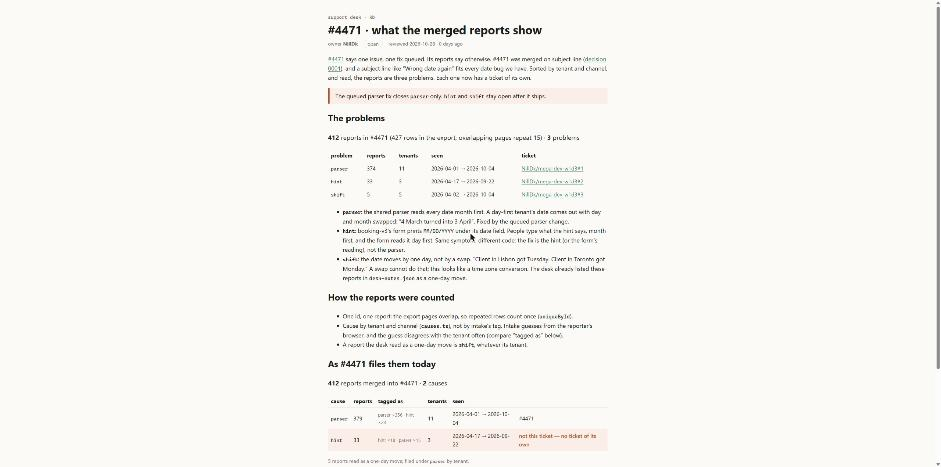
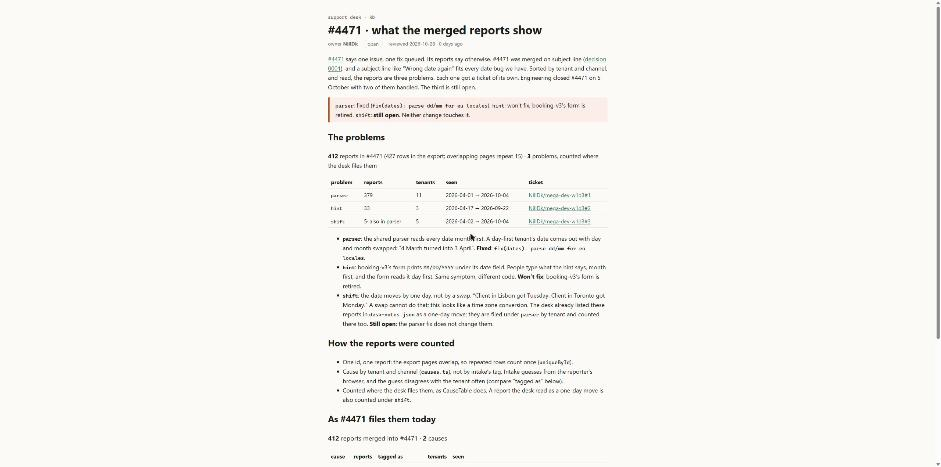
kb: 4471-split reflects #4471's close; count problems where the desk files them

diff --git a/rendered/4471-split.html b/rendered/4471-split.html
@@ -3,19 +3,19 @@
   <head>
     <meta charset="utf-8" />
     <meta name="viewport" content="width=device-width, initial-scale=1" />
-    <link href="../../_app/immutable/entry/start.DE2DCllr.js" rel="modulepreload">
+    <link href="../../_app/immutable/entry/start.BL4WUtSB.js" rel="modulepreload">
 		<link href="../../_app/immutable/chunks/Dc3myhCH.js" rel="modulepreload">
-		<link href="../../_app/immutable/chunks/nlwu1iZM.js" rel="modulepreload">
+		<link href="../../_app/immutable/chunks/wXXiyhBs.js" rel="modulepreload">
 		<link href="../../_app/immutable/chunks/B_F0-bQf.js" rel="modulepreload">
-		<link href="../../_app/immutable/entry/app.CVo913Ee.js" rel="modulepreload">
+		<link href="../../_app/immutable/entry/app.BZL37cY9.js" rel="modulepreload">
 		<link href="../../_app/immutable/chunks/Cdr0LWUj.js" rel="modulepreload">
 		<link href="../../_app/immutable/chunks/DiXWMdRu.js" rel="modulepreload">
 		<link href="../../_app/immutable/chunks/B7kOgPL8.js" rel="modulepreload">
 		<link href="../../_app/immutable/chunks/WDuJd7c_.js" rel="modulepreload">
 		<link href="../../_app/immutable/nodes/0.Cjwt2hR7.js" rel="modulepreload">
 		<link href="../../_app/immutable/chunks/DtwsQ6ur.js" rel="modulepreload">
-		<link href="../../_app/immutable/nodes/5.Bj4hrX9O.js" rel="modulepreload">
-		<link href="../../_app/immutable/chunks/BKRTNOGv.js" rel="modulepreload">
+		<link href="../../_app/immutable/nodes/5.CI6YKB9f.js" rel="modulepreload">
+		<link href="../../_app/immutable/chunks/DVDi_DPO.js" rel="modulepreload">
 		<link href="../../_app/immutable/chunks/Dv-jlncp.js" rel="modulepreload">
 		<link href="../../_app/immutable/chunks/BgJH9bYc.js" rel="modulepreload">
 		<link href="../../_app/immutable/chunks/4Yqb2TDZ.js" rel="modulepreload">
@@ -23,33 +23,34 @@
 		<link href="../../_app/immutable/assets/runbook.BhhgOc_n.css" rel="stylesheet">
 		<link href="../../_app/immutable/assets/Callout.yLErXQDM.css" rel="stylesheet">
 		<link href="../../_app/immutable/assets/CauseTable.DuKfINX_.css" rel="stylesheet">
-		<link href="../../_app/immutable/assets/5.CZRYr356.css" rel="stylesheet">
+		<link href="../../_app/immutable/assets/5.D9VB9jJU.css" rel="stylesheet">
   </head>
   <body data-sveltekit-preload-data="hover">
     <div style="display: contents"><!--[--><!--[0--><!--[--><!--[--><div class="kb svelte-e2jw2j"><header><a class="crumb svelte-e2jw2j" href="/kb">support desk · kb</a> <h1 class="svelte-e2jw2j">#4471 · what the merged reports show</h1> <p class="meta svelte-e2jw2j"><span>owner <b>NillDk</b></span> <span class="status open svelte-e2jw2j">open</span> <span class="svelte-e2jw2j">reviewed 2026-10-28 · 0 days ago</span></p></header> <!--[-1--><!--]--> <main><p><a href="/kb/incidents/4471">#4471</a> says one issue, one fix queued. Its reports say otherwise. #4471 was
 merged on subject line (<a href="/kb/decisions/0001-dedupe-by-subject">decision 0001</a>), and a subject line
 like “Wrong date again” fits every date bug we have. Sorted by tenant and channel, and read, the
-reports are three problems. Each one now has a ticket of its own.</p> <aside class="warn svelte-17bri61"><!---->The queued parser fix closes <code>parser</code> only. <code>hint</code> and <code>shift</code> stay
-open after it ships.<!----></aside><!----> <h2>The problems</h2> <p class="sum svelte-xskqqx"><strong>412</strong> reports in #4471 (427 rows in the export; overlapping pages repeat
-  15) · <strong>3</strong> problems</p> <table><thead><tr><th>problem</th><th>reports</th><th>tenants</th><th>seen</th><th>ticket</th></tr></thead><tbody><!--[--><tr><td><code>parser</code></td><td>374</td><td>11</td><td>2026-04-01 → 2026-10-04</td><td><!--[0--><a href="https://github.com/NillDk/mega-dev-w1d3/issues/1">NillDk/mega-dev-w1d3#1</a><!--]--></td></tr><tr><td><code>hint</code></td><td>33</td><td>3</td><td>2026-04-17 → 2026-09-22</td><td><!--[0--><a href="https://github.com/NillDk/mega-dev-w1d3/issues/2">NillDk/mega-dev-w1d3#2</a><!--]--></td></tr><tr><td><code>shift</code></td><td>5</td><td>5</td><td>2026-04-02 → 2026-10-04</td><td><!--[0--><a href="https://github.com/NillDk/mega-dev-w1d3/issues/3">NillDk/mega-dev-w1d3#3</a><!--]--></td></tr><!--]--></tbody></table><!----> <ul><li><strong><code>parser</code></strong>: the shared parser reads every date month first. A day-first tenant’s date comes
-out with day and month swapped: “4 March turned into 3 April”. Fixed by the queued parser change.</li> <li><strong><code>hint</code></strong>: booking-v3’s form prints <code>MM/DD/YYYY</code> under its date field. People type what the
-hint says, month first, and the form reads it day first. Same symptom, different code: the fix
-is the hint (or the form’s reading), not the parser.</li> <li><strong><code>shift</code></strong>: the date moves by one day, not by a swap. “Client in Lisbon got Tuesday. Client in
+reports are three problems. Each one got a ticket of its own. Engineering closed #4471 on
+5 October with two of them handled. The third is still open.</p> <aside class="warn svelte-17bri61"><code>parser</code>: fixed (<code>fix(dates): parse dd/mm for eu locales</code>). <code>hint</code>: won't
+fix, booking-v3's form is retired. <code>shift</code>: <strong>still open</strong>. Neither change touches it.<!----></aside><!----> <h2>The problems</h2> <p class="sum svelte-xskqqx"><strong>412</strong> reports in #4471 (427 rows in the export; overlapping pages repeat
+  15) · <strong>3</strong> problems, counted where the desk files them</p> <table><thead><tr><th>problem</th><th>reports</th><th>tenants</th><th>seen</th><th>ticket</th></tr></thead><tbody><!--[--><tr><td><code>parser</code></td><td>379<!--[-1--><!--]--></td><td>11</td><td>2026-04-01 → 2026-10-04</td><td><!--[0--><a href="https://github.com/NillDk/mega-dev-w1d3/issues/1">NillDk/mega-dev-w1d3#1</a><!--]--></td></tr><tr><td><code>hint</code></td><td>33<!--[-1--><!--]--></td><td>3</td><td>2026-04-17 → 2026-09-22</td><td><!--[0--><a href="https://github.com/NillDk/mega-dev-w1d3/issues/2">NillDk/mega-dev-w1d3#2</a><!--]--></td></tr><tr><td><code>shift</code></td><td>5<!--[0--><span class="also svelte-xskqqx">· also in parser</span><!--]--></td><td>5</td><td>2026-04-02 → 2026-10-04</td><td><!--[0--><a href="https://github.com/NillDk/mega-dev-w1d3/issues/3">NillDk/mega-dev-w1d3#3</a><!--]--></td></tr><!--]--></tbody></table><!----> <ul><li><strong><code>parser</code></strong>: the shared parser reads every date month first. A day-first tenant’s date comes
+out with day and month swapped: “4 March turned into 3 April”. <strong>Fixed</strong>: <code>fix(dates): parse dd/mm for eu locales</code>.</li> <li><strong><code>hint</code></strong>: booking-v3’s form prints <code>MM/DD/YYYY</code> under its date field. People type what the
+hint says, month first, and the form reads it day first. Same symptom, different code. <strong>Won’t fix</strong>: booking-v3’s form is retired.</li> <li><strong><code>shift</code></strong>: the date moves by one day, not by a swap. “Client in Lisbon got Tuesday. Client in
 Toronto got Monday.” A swap cannot do that; this looks like a time zone conversion. The desk
-already listed these reports in <code>desk-notes.json</code> as a one-day move.</li></ul> <h2>How the reports were counted</h2> <ul><li>One id, one report: the export pages overlap, so repeated rows count once (<code>uniqueById</code>).</li> <li>Cause by tenant and channel (<code>causes.ts</code>), not by intake’s tag. Intake guesses from the
-reporter’s browser, and the guess disagrees with the tenant often (compare “tagged as” below).</li> <li>A report the desk read as a one-day move is <code>shift</code>, whatever its tenant.</li></ul> <h2>As #4471 files them today</h2> <p class="sum svelte-12oyimm"><strong>412</strong> reports merged into #4471 · <strong>2</strong> causes</p> <table><thead><tr><th>cause</th><th>reports</th><th>tagged as</th><th>tenants</th><th>seen</th><th></th></tr></thead><tbody><!--[--><tr class="svelte-12oyimm"><td class="svelte-12oyimm"><code>parser</code></td><td class="svelte-12oyimm">379</td><td class="tags svelte-12oyimm">parser ×356 · hint ×23</td><td class="svelte-12oyimm">11</td><td class="svelte-12oyimm">2026-04-01 → 2026-10-04</td><td class="svelte-12oyimm">#4471</td></tr><tr class="svelte-12oyimm wrong"><td class="svelte-12oyimm"><code>hint</code></td><td class="svelte-12oyimm">33</td><td class="tags svelte-12oyimm">hint ×18 · parser ×15</td><td class="svelte-12oyimm">3</td><td class="svelte-12oyimm">2026-04-17 → 2026-09-22</td><td class="svelte-12oyimm">not this ticket — no ticket of its own</td></tr><!--]--></tbody></table> <!--[--><!--[0--><p class="note svelte-12oyimm">5 reports read as a one-day move; filed under <code>parser</code> by tenant.</p><!--]--><!--[-1--><!--]--><!--]--><!----> <h2>Lessons</h2> <ul><li>A subject line names the symptom, not the bug. Read the body before you merge.</li> <li>Count from the data, not from the tag intake guessed.</li></ul> <!--[0--><p class="stamp svelte-1280m42">desk ref <b class="svelte-1280m42">DR-QG4V-1N08</b></p><!--]--><!----><!----></main> <footer class="svelte-e2jw2j">Pages are written by people. Tables and charts are built from data at render time.</footer></div><!--]--><!----><!--]--><!--]--> <!--[-1--><!--]--><!--]-->
+already listed these reports in <code>desk-notes.json</code> as a one-day move; they are filed under <code>parser</code> by tenant and counted there too. <strong>Still open</strong>: the parser fix does not change them.</li></ul> <h2>How the reports were counted</h2> <ul><li>One id, one report: the export pages overlap, so repeated rows count once (<code>uniqueById</code>).</li> <li>Cause by tenant and channel (<code>causes.ts</code>), not by intake’s tag. Intake guesses from the
+reporter’s browser, and the guess disagrees with the tenant often (compare “tagged as” below).</li> <li>Counted where the desk files them, as CauseTable does. A report the desk read as a one-day move
+is also counted under <code>shift</code>.</li></ul> <h2>As #4471 files them today</h2> <p class="sum svelte-12oyimm"><strong>412</strong> reports merged into #4471 · <strong>2</strong> causes</p> <table><thead><tr><th>cause</th><th>reports</th><th>tagged as</th><th>tenants</th><th>seen</th><th></th></tr></thead><tbody><!--[--><tr class="svelte-12oyimm"><td class="svelte-12oyimm"><code>parser</code></td><td class="svelte-12oyimm">379</td><td class="tags svelte-12oyimm">parser ×356 · hint ×23</td><td class="svelte-12oyimm">11</td><td class="svelte-12oyimm">2026-04-01 → 2026-10-04</td><td class="svelte-12oyimm">#4471</td></tr><tr class="svelte-12oyimm wrong"><td class="svelte-12oyimm"><code>hint</code></td><td class="svelte-12oyimm">33</td><td class="tags svelte-12oyimm">hint ×18 · parser ×15</td><td class="svelte-12oyimm">3</td><td class="svelte-12oyimm">2026-04-17 → 2026-09-22</td><td class="svelte-12oyimm">not this ticket — no ticket of its own</td></tr><!--]--></tbody></table> <!--[--><!--[0--><p class="note svelte-12oyimm">5 reports read as a one-day move; filed under <code>parser</code> by tenant.</p><!--]--><!--[-1--><!--]--><!--]--><!----> <h2>Lessons</h2> <ul><li>A subject line names the symptom, not the bug. Read the body before you merge.</li> <li>Count from the data, not from the tag intake guessed.</li></ul> <!--[0--><p class="stamp svelte-1280m42">desk ref <b class="svelte-1280m42">DR-QG4V-1N08</b></p><!--]--><!----><!----></main> <footer class="svelte-e2jw2j">Pages are written by people. Tables and charts are built from data at render time.</footer></div><!--]--><!----><!--]--><!--]--> <!--[-1--><!--]--><!--]-->
 			
 			<script>
 				{
-					__sveltekit_1ctemrj = {
+					__sveltekit_8pvx6f = {
 						base: new URL("../..", location).pathname.slice(0, -1)
 					};
 
 					const element = document.currentScript.parentElement;
 
 					Promise.all([
-						import("../../_app/immutable/entry/start.DE2DCllr.js"),
-						import("../../_app/immutable/entry/app.CVo913Ee.js")
+						import("../../_app/immutable/entry/start.BL4WUtSB.js"),
+						import("../../_app/immutable/entry/app.BZL37cY9.js")
 					]).then(([kit, app]) => {
 						kit.start(app, element, {
 							node_ids: [0, 5],

diff --git a/src/lib/kb/split.ts b/src/lib/kb/split.ts
@@ -2,25 +2,32 @@
 import { causeOf, type Cause, type Report, type Tenant } from '#lib/kb/causes';
 
 // `parser` and `hint` swap day and month (causes.ts). A swap can never move a date by one day, so
-// the reports the desk read as a one-day move (desk-notes.json) are a third bug: `shift`.
+// the reports the desk read as a one-day move (desk-notes.json) are a third bug: `shift`. Like
+// CauseTable, every report is counted where it is filed (by tenant); `shift` is read across them.
 export type Problem = Cause | 'shift' | 'unplaced';
-export const PROBLEMS: readonly Problem[] = ['parser', 'hint', 'shift', 'unplaced'];
 
-export function problemOf(r: Report, t: Tenant | undefined, shifted: readonly string[]): Problem {
-  if (shifted.includes(r.id)) return 'shift';
-  return causeOf(r, t) ?? 'unplaced';
+export type ProblemGroup = {
+  problem: Problem;
+  reports: Report[];
+  // For `shift`: the problem its reports are filed under by tenant.
+  filedUnder: Problem[];
+  tenants: number;
+  firstSeen: string;
+  lastSeen: string;
+};
+
+function group(problem: Problem, rs: Report[], filedUnder: Problem[] = []): ProblemGroup {
+  const days = rs.map((r) => r.receivedAt.slice(0, 10)).sort();
+  return { problem, reports: rs, filedUnder, tenants: new Set(rs.map((r) => r.tenant)).size, firstSeen: days[0], lastSeen: days[days.length - 1] };
 }
-
-export type ProblemGroup = { problem: Problem; reports: Report[]; tenants: number; firstSeen: string; lastSeen: string };
 
 export function splitByProblem(
   reports: Report[],
   tenantOf: (r: Report) => Tenant | undefined,
   shifted: readonly string[],
 ): ProblemGroup[] {
-  return PROBLEMS.map((problem) => {
-    const rs = reports.filter((r) => problemOf(r, tenantOf(r), shifted) === problem);
-    const days = rs.map((r) => r.receivedAt.slice(0, 10)).sort();
-    return { problem, reports: rs, tenants: new Set(rs.map((r) => r.tenant)).size, firstSeen: days[0], lastSeen: days[days.length - 1] };
-  }).filter((g) => g.reports.length > 0);
+  const filed = (r: Report): Problem => causeOf(r, tenantOf(r)) ?? 'unplaced';
+  const byFiling = (['parser', 'hint', 'unplaced'] as const).map((p) => group(p, reports.filter((r) => filed(r) === p)));
+  const moved = reports.filter((r) => shifted.includes(r.id));
+  return [...byFiling, group('shift', moved, [...new Set(moved.map(filed))])].filter((g) => g.reports.length > 0);
 }

diff --git a/src/lib/kb/SplitTable.svelte b/src/lib/kb/SplitTable.svelte
@@ -16,7 +16,7 @@
 <p class="sum">
   <strong>{rows.length}</strong> reports in #{ticket} ({exported} rows in the export; overlapping pages repeat
   {exported - rows.length}) · <strong>{groups.length}</strong>
-  {groups.length === 1 ? 'problem' : 'problems'}
+  {groups.length === 1 ? 'problem' : 'problems'}, counted where the desk files them
 </p>
 
 <table>
@@ -27,7 +27,7 @@
     {#each groups as g (g.problem)}
       <tr>
         <td><code>{g.problem}</code></td>
-        <td>{g.reports.length}</td>
+        <td>{g.reports.length}{#if g.filedUnder.length}<span class="also"> · also in {g.filedUnder.join(', ')}</span>{/if}</td>
         <td>{g.tenants}</td>
         <td>{g.firstSeen} → {g.lastSeen}</td>
         <td>
@@ -45,4 +45,5 @@
 <style>
   .sum { font-size: 1.1rem; }
   .none { color: var(--warn); font-weight: 600; }
+  .also { color: var(--muted); font-size: 0.85em; }
 </style>
